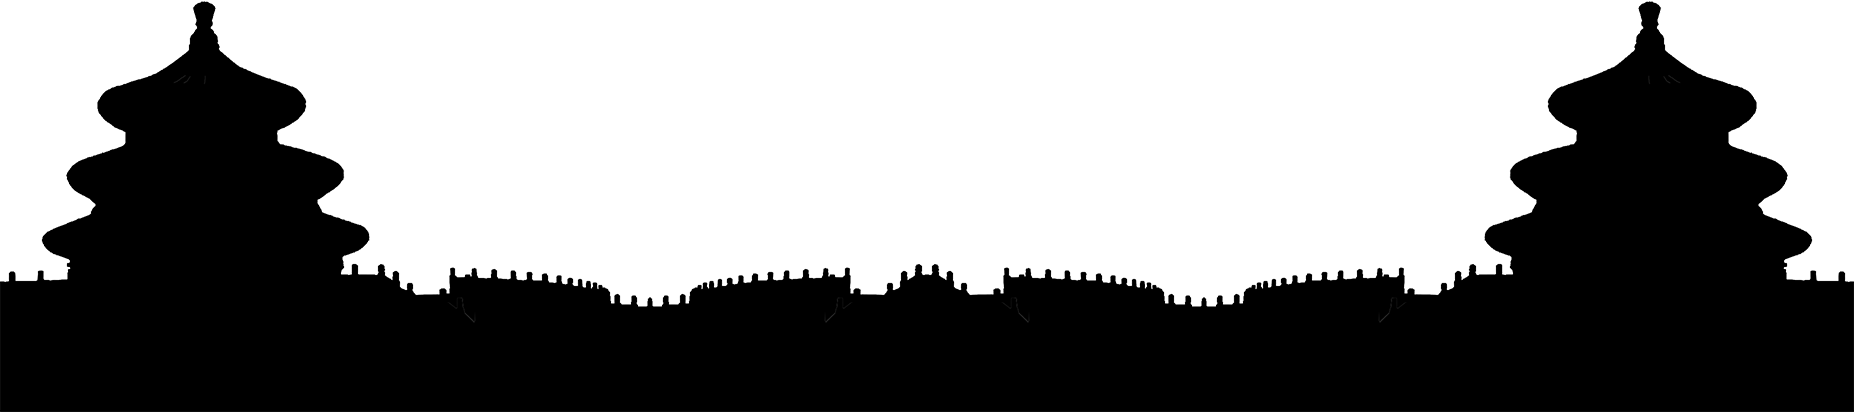
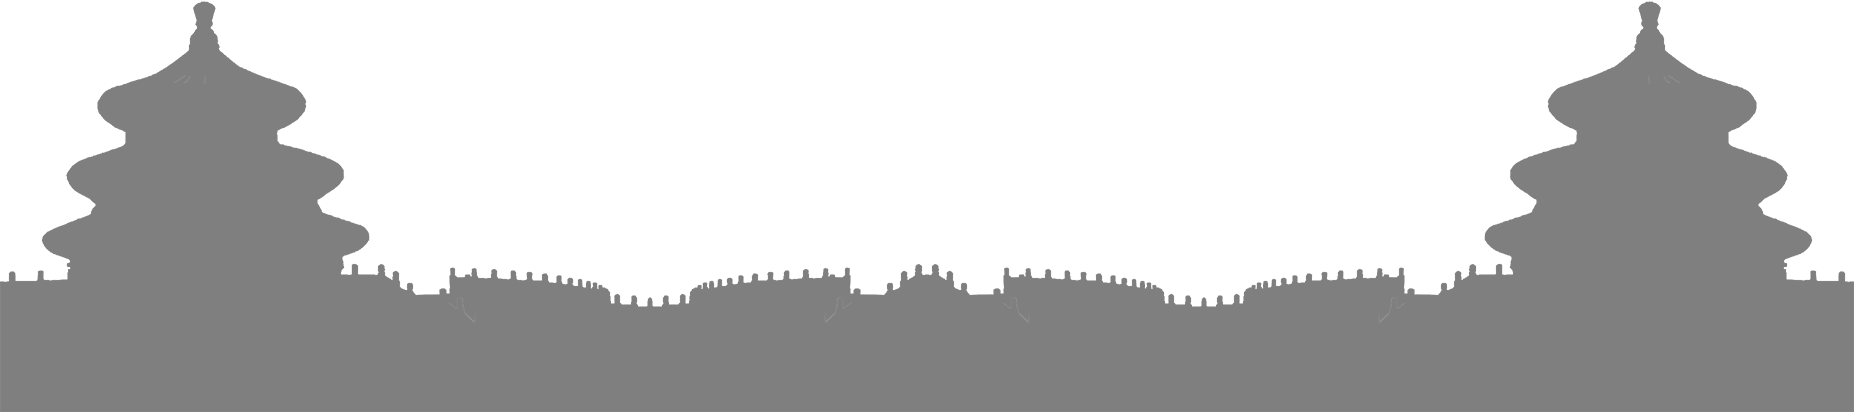
Made the backdrop transparent and took off the css transparency

diff --git a/sudoku-new/css/main.less b/sudoku-new/css/main.less
@@ -242,7 +242,7 @@ html.dyslexic {
 
 #ledge {
 	display: block;
-	background-color: rgba(0,0,0,0.3);
+	background-color: rgba(0,0,0,1);
 	padding: 10px;
 
     .icon {
